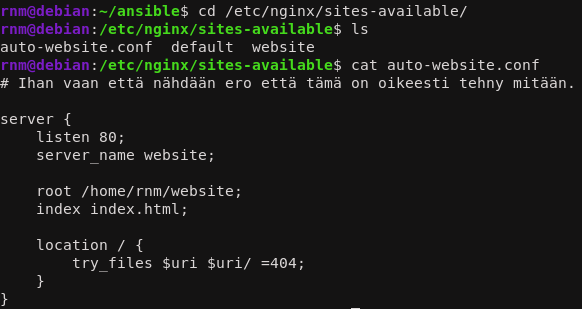
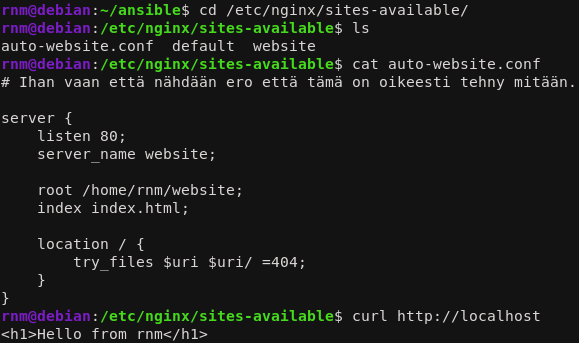
h3 - Demoni bug fixes

diff --git a/diary/entries/PH26-003.md b/diary/entries/PH26-003.md
@@ -173,7 +173,7 @@ curl http://localhost
 
 ## c) Automoottorix. Automatisoi Nginx asennus Ansiblella. Ylläpitäjän osuus Ansiblella riittää, itse HTML-weppisivut voi tehdä käsin
 
-Lähetään luomaan tiedosto rakennetta.
+Lähetään luomaan tiedosto rakennetta ja itse tiedostoja. Tämä on melko suoraviivanen prosessi, koska kaikki samat vaiheet vaan toistetaan, mitä aikasemmin tehtiin ja nyt seurasin vaan Teron nopeita ohjeita, miten rakenne suunilleen menee tässä.
 
 ```sh
 mkdir -p roles/nginx/files
@@ -183,6 +183,8 @@ nano roles/nginx/tasks/main.yml
 ```
 
 tasks/main.yml
+
+Lisäsin omaan versioon vielä sen että vanha symlink otetaan pois käytöstä, jotta ei tule mitään outoja tilanteita, muuten seurattu aika pitkälti Teron pohjaa.
 
 ```yaml
 - apt:
@@ -271,6 +273,6 @@ Onnistui.
 
 #### 2. Karvinen 2026: Apache installed with Ansible - quick notes. Luettavissa: [[https://terokarvinen.com/apache-ansible/]] Luettu: 14.4.2026
 
-#### 3. Ansible Community Documentation: Handlers: running operations on change. Luettavissa: [[https://docs.ansible.com/projects/ansible/latest/playbook_guide/playbooks_handlers.html#notifying-handlers]] Luettu: 14.4.2026
+#### 3. Ansible Community Documentation: Handlers: running operations on change. Luettavissa: [[https://docs.ansible.com/projects/ansible/latest/playbook_guide/playbooks_handlers.html]] Luettu: 14.4.2026
 
-#### 4. Farhan 2021. The NGINX Handbook – Learn NGINX for Beginners. Luettavissa: [[https://www.freecodecamp.org/news/the-nginx-handbook/#heading-how-to-serve-static-content-using-nginx]] Luettu: 14.4.2026
+#### 4. Farhan 2021. The NGINX Handbook – Learn NGINX for Beginners. Luettavissa: [[https://www.freecodecamp.org/news/the-nginx-handbook/]] Luettu: 14.4.2026
